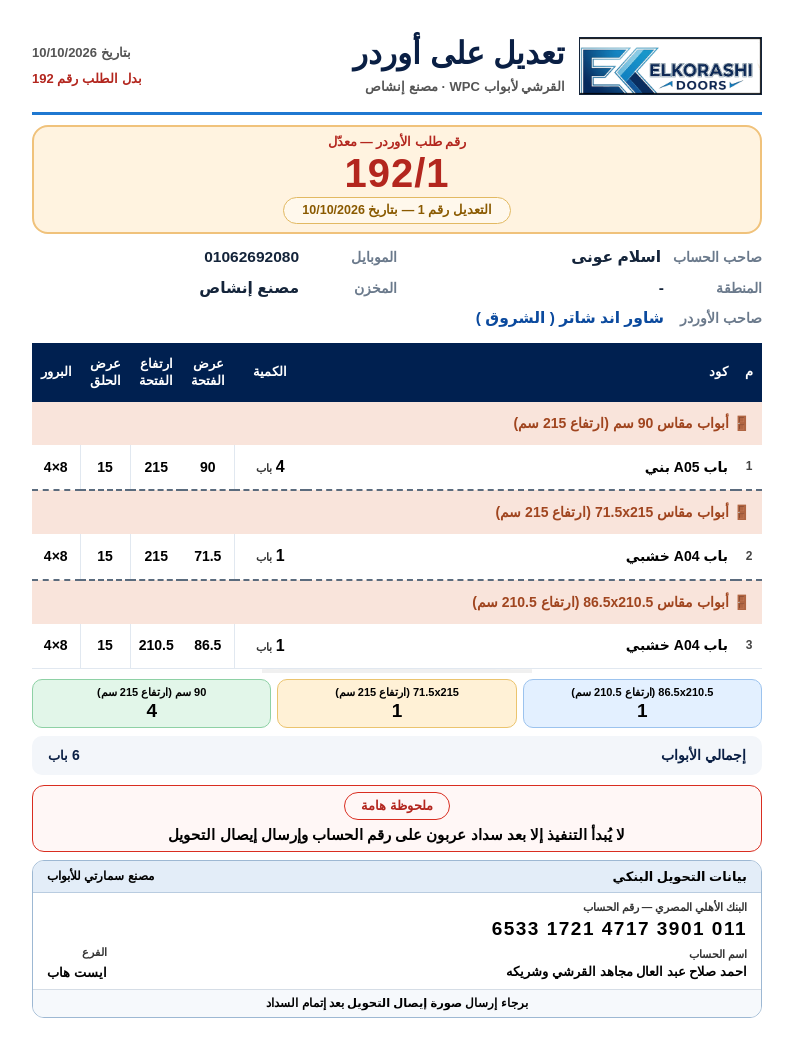
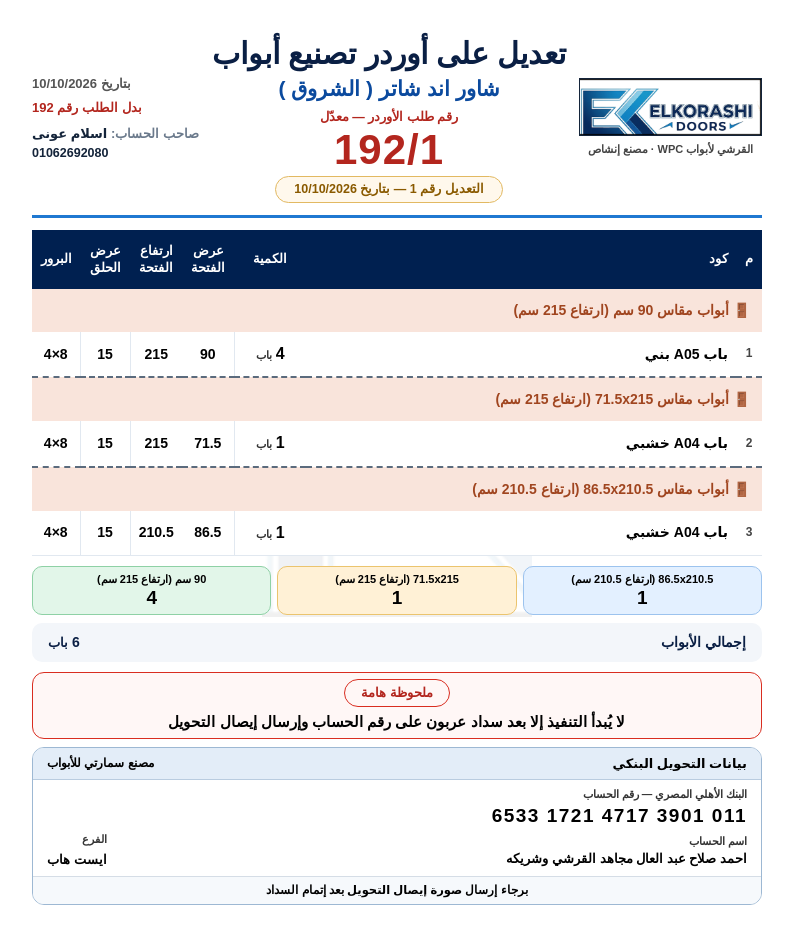
Add files via upload

diff --git a/index.html b/index.html
@@ -8796,7 +8796,7 @@ function docHTML(o,mode,priced){
                   : (o.displayNo ? esc(o.displayNo) + (edited ? '/' + esc(o.editCount) : '')
                                  : esc(o.id));
         const label = isQuote ? 'رقم عرض السعر' : (edited ? 'رقم طلب الأوردر — معدّل' : 'رقم طلب الأوردر');
-        const title = isQuote ? 'عرض سعر' : (o.replacesId ? 'تعديل على أوردر' : 'طلب أوردر');
+        const title = isQuote ? 'عرض سعر' : (o.replacesId ? 'تعديل على أوردر تصنيع أبواب' : 'أوردر تصنيع أبواب');
         const editDate = edited ? (o.editedAt ? dateStrDMY_(new Date(o.editedAt+'T12:00:00').getTime())
                                               : dateStrDMY_(o.ts)) : '';
         const topDate = edited ? editDate : dateStrDMY_(o.ts);
@@ -8806,31 +8806,27 @@ function docHTML(o,mode,priced){
             <span style="color:#6B7A8C;font-size:14px;min-width:86px">${lbl}</span><b style="font-size:15.5px;color:#14243A">${valHTML}</b></div>`;
         const dash = v => (v && String(v).trim()) ? esc(v) : '-';
         return `
-      <div style="display:flex;align-items:center;gap:14px;padding-bottom:14px;border-bottom:3px solid #1F78D1">
-        <div style="border:1px solid #14243A;background:#fff;line-height:0"><img src="${ASSETS.logo}" style="height:56px;width:auto;display:block"></div>
-        <div style="flex:1;min-width:0">
-          <div style="font-size:31px;font-weight:900;color:#0A1F44;line-height:1.3">${title}</div>
-          <div style="font-size:13px;color:#555;margin-top:2px">${esc(COMPANY_AR)} · ${esc(WAREHOUSE)}</div>
+      <div style="display:flex;align-items:center;gap:12px;padding-bottom:12px;border-bottom:3px solid #1F78D1">
+        <div style="text-align:center;flex:0 0 auto">
+          <div style="border:1px solid #14243A;background:#fff;line-height:0"><img src="${ASSETS.logo}" style="height:56px;width:auto;display:block"></div>
+          <div style="font-size:11px;color:#444;margin-top:4px;font-weight:700;white-space:nowrap">${esc(COMPANY_AR)} · ${esc(WAREHOUSE)}</div>
         </div>
-        <div style="text-align:left;white-space:nowrap">
+        <div style="flex:1;min-width:0;text-align:center">
+          <div style="font-size:30px;font-weight:900;color:#0A1F44;line-height:1.3">${title}</div>
+          ${o.customer?`<div style="font-size:21px;font-weight:900;color:#0B4A9E;line-height:1.35;margin-top:2px">${esc(o.customer)}</div>`:''}
+          <div style="font-size:12.5px;font-weight:800;color:#B3261E;margin-top:4px">${label}</div>
+          <div dir="ltr" style="font-size:42px;font-weight:900;color:#B3261E;line-height:1.05;letter-spacing:1px">${num}</div>
+          ${pill?`<div style="display:inline-block;margin-top:4px;padding:2px 18px;border:1.5px solid #E2B962;border-radius:30px;background:#FFF8EC;color:#8A5A00;font-weight:800;font-size:12.5px">${pill}</div>`:''}
+        </div>
+        <div style="text-align:left;flex:0 0 auto;max-width:200px">
           <div style="font-size:13px;color:#555">بتاريخ ${esc(topDate)}</div>
-          ${o.replacesId?`<div style="font-size:13px;margin-top:4px;color:#B3261E;font-weight:800">بدل الطلب رقم ${esc(prevOrderNoText_(o))}</div>`:''}
+          ${o.replacesId?`<div style="font-size:13px;margin-top:3px;color:#B3261E;font-weight:800">بدل الطلب رقم ${esc(prevOrderNoText_(o))}</div>`:''}
+          <div style="font-size:13px;margin-top:6px;color:#14243A;line-height:1.4"><span style="color:#6B7A8C">صاحب الحساب:</span> <b>${dash(o.name)}</b></div>
+          ${o.phone?`<div dir="ltr" style="font-size:12.5px;font-weight:700;color:#14243A;text-align:left">${esc(o.phone)}</div>`:''}
+          ${o.region&&String(o.region).trim()?`<div style="font-size:12px;color:#444">${esc(o.region)}</div>`:''}
         </div>
       </div>
-
-      <div style="margin-top:10px;background:#FFF3E0;border:2px solid #F0C27B;border-radius:16px;padding:5px 16px 8px;text-align:center">
-        <div style="font-size:12.5px;font-weight:800;color:#B3261E">${label}</div>
-        <div dir="ltr" style="font-size:40px;font-weight:900;color:#B3261E;line-height:1.05;letter-spacing:1px">${num}</div>
-        ${pill?`<div style="display:inline-block;margin-top:3px;padding:2px 18px;border:1.5px solid #E2B962;border-radius:30px;background:#FFF8EC;color:#8A5A00;font-weight:800;font-size:12.5px">${pill}</div>`:''}
-      </div>
-
-      <div style="margin-top:10px;display:flex;flex-wrap:wrap;row-gap:5px">
-        ${cell('صاحب الحساب', dash(o.name))}
-        ${cell('الموبايل', o.phone?`<span dir="ltr">${esc(o.phone)}</span>`:'-')}
-        ${cell('المنطقة', dash(o.region))}
-        ${cell('المخزن', esc(o.warehouse||WAREHOUSE))}
-        ${cell('صاحب الأوردر', o.customer?`<span style="color:#0B4A9E">${esc(o.customer)}</span>`:'-', true)}
-      </div>`;
+`;
       })()}
 
       ${isQuote ? '' : openOrdersNoteHTML_(o)}
